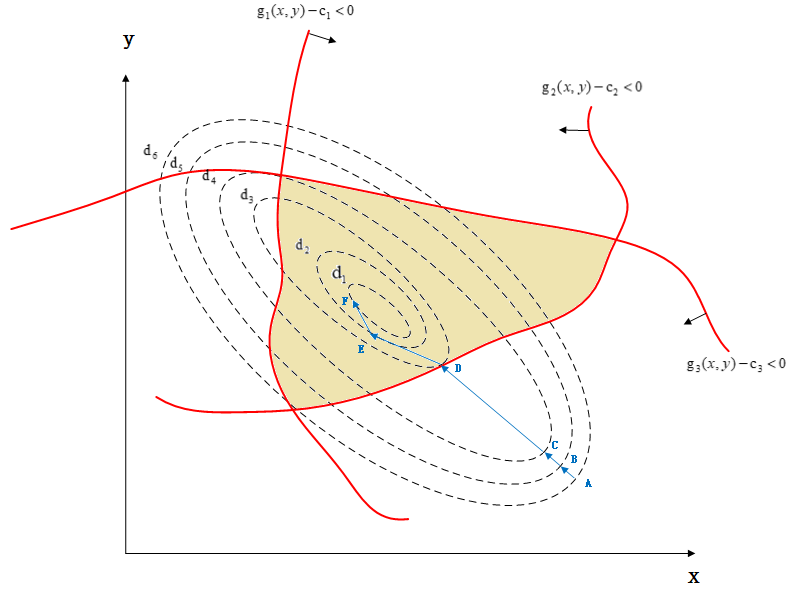
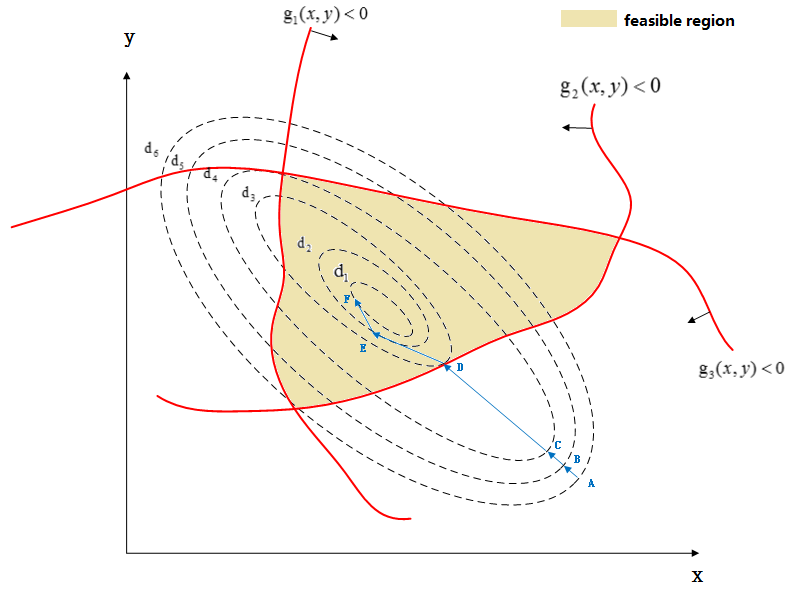
update svm general_lagrange

diff --git a/SVM相关/拉格朗日乘子法和广义拉格朗日乘子法.md b/SVM相关/拉格朗日乘子法和广义拉格朗日乘子法.md
@@ -11,7 +11,7 @@
 **github**: `https://github.com/FesianXu`
 **有关代码开源**: [click][click]
 
-*****
+*****************************************************************************
 
 
 # 最优化问题
@@ -31,6 +31,8 @@ s.t.　　　4x+5y = 10
 $$
 因为此时的约束条件是**仿射函数（affine function）**[^1]，所以可以利用换元法将$x$表示为$y$的函数，从而将目标函数变为无约束的形式，然后利用罗尔定理便可以求出最值点了。
 然而如果约束条件一般化为$g(x, y) = c$，那么$x$就不一定可以用其他变量表示出来了，这个时候就要利用**拉格朗日乘数法(Lagrange multipliers )**了。
+
+*****************************************************************************
 
 # 拉格朗日乘数法(Lagrange multipliers)
 我们先一般化一个二元最优化问题为$(2.1)$形式：
@@ -61,39 +63,67 @@ L(x, y, \lambda) = f(x, y) - \lambda(g(x, y) - c)
 $$
 看！我们得出了我们高数中经常见到的**等式约束下的拉格朗日乘数函数的表示方法**。
 
+*****************************************************************************
 
 # 广义拉格朗日乘数法(Generalized Lagrange multipliers)
 上面我们的拉格朗日乘数法解决了等式约束的最优化问题，但是在**存在不等式约束的最优化问题**（包括我们SVM中需要求解的最优化问题）上，普通的拉格朗日乘数法并不能解决，因此学者提出了**广义拉格朗日乘数法（Generalized Lagrange multipliers）**， 用于解决含有不等式约束的最优化问题。这一章，我们谈一谈广义拉格朗日乘数法。
-首先，我们先一般化我们的问题，规定一个标准的带有不等式约束的最小化问题，如：
+首先，我们先一般化我们的问题，规定一个二元标准的带有不等式约束的最小化问题(当然可以推广到多元的问题)，如：
 $$
 \min_{x, y} f(x, y)
 $$
 $$
-s.t.　　g_i(x, y) \leq c_i, i = 1,2,3
+s.t.　　g_i(x, y) \leq 0, i = 1,2,\cdots,N
 $$
 $$
-h_i(x, y) = 0, i = 1,2,3
+h_i(x, y) = 0, i = 1,2, \cdots, N
 \tag{3.1}
 $$
-这里我们先不考虑等式约束，而只考虑不等式约束，所以$(3.1)$变为了：
+类似于拉格朗日乘数法，参照式子$(2.4)$，我们使用$\alpha_i$和$\beta_i$作为等式约束和不等式约束的拉格朗日乘子，得出下式：
 $$
-\min_{x, y} f(x, y)
-$$
-$$
-s.t.　　g_i(x, y) \leq c_i, i = 1,2,3
+L(x, y, \alpha, \beta) = f(x, y)+\sum_{i=1}^N \alpha_ig_i(x ,y)+\sum_{i=1}^N \beta_i h_i(x, y)
 \tag{3.2}
 $$
+**KKT条件（Karush–Kuhn–Tucker conditions）**指出，当满足以下几个条件的时候，其解是问题最优解的候选解(摘自wikipedia)。
 
-![general_lagrange_multipliers] 
+1. **Stationarity**
+   * 对于最小化问题就是： $\nabla f(x,y)+\sum_{i=1}^N \alpha_i \nabla g_i(x ,y)+\sum_{i=1}^N \beta_i \nabla h_i(x, y) = 0 \tag{3.3}$
+   * 对于最大化问题就是： $\nabla f(x,y)-(\sum_{i=1}^N \alpha_i \nabla g_i(x ,y)+\sum_{i=1}^N \beta_i \nabla h_i(x, y)) = 0 \tag{3.4}$
+
+2. **Primal feasibility**
+   * $g_i(x,y) \leq0, i = 1,2,\cdots,N \tag{3.5}$
+   * $h_i(x, y) = 0, i = 1,2,\cdots,N \tag{3.6}$
+
+3. **Dual feasibility**
+   * $\alpha_i \geq 0, i = 1,2, \cdots, N \tag{3.7}$
+
+4. **Complementary slackness**
+   * $\alpha_i g_i(x, y) = 0, i = 1,2,\cdots,N \tag{3.8}$
+
+其中的第一个条件和我们的拉格朗日乘数法的含义是相同的，就是梯度共线的意思；而第二个条件就是主要约束条件，自然是需要满足的；**有趣的和值得注意的是第三个和第四个条件，接下来我们探讨下这两个条件，以及为什么不等式约束会多出这两个条件。**
+
+----
+为了接下来的讨论方便，我们将N设为3，并且去掉等式约束，这样我们的最小化问题的广义拉格朗日函数就变成了：
+$$
+L(x, y, \alpha, \beta) = f(x, y)+\sum_{i=1}^3 \alpha_ig_i(x ,y)
+\tag{3.9}
+$$
+绘制出来的示意图如下所示：
+![general_lagrange_multipliers][general_lagrange_multipliers]
+其中$d_i > d_j, when　i > j$，而蓝线为最优化寻路过程。
+让我们仔细观察式子$(3.7)$和$(3.8)$，我们不难发现，因为$\alpha_i \geq 0$而$g_i(x, y) \leq 0$，并且需要满足$\alpha_i g_i(x, y) = 0$，所以$\alpha_i$和$g_i(x,y)$之中必有一个为0，那为什么会这样呢？
+
+----
+
+我们从上面的示意图入手理解并且记好公式$(3.3)$。让我们假设初始化一个点A， 这个点A明显不处于最优点，也不在可行域内，也就是说不满足式子$(3.5)$，有$g_i(x,y)>0$，为了满足约束$(3.8)$，有$\alpha_i=0$，导致$\alpha_i \nabla g_i(x,y)=0$，因此式子$(3.5)$就只剩下了$\nabla f(x,y)$，**因此对着$\nabla f(x,y)$进行优化，也就是沿着$f(x,y)$梯度方向下降即可，不需考虑其他的条件（因为还完全处于可行域之外）**。因此，A点一直走啊走，从A到B，从B到C，从C到D，这个时候因为D点满足$g_2(x,y)=0$，因此$\alpha_2 > 0$，所以$\alpha_2\nabla g_2(x,y) \neq 0$，所以在优化下一个点E的时候，就会考虑到
 
 
-
-
+*****************************************************************************
 # 引用
 1. [拉格朗日乘子法如何理解？ 知乎][ref_1]
 2. [《统计学习方法》 豆瓣][ref_2]
 3. [《【直观详解】拉格朗日乘法和KKT条件》  微信公众号][ref_3]
 4. [《解密SVM系列（一）：关于拉格朗日乘子法和KKT条件》 CSDN][ref_4]
+5. [Karush–Kuhn–Tucker conditions wikipedia][ref_5]
 
 
 [click]: https://github.com/FesianXu/AI_Blog/tree/master/SVM%E7%9B%B8%E5%85%B3
@@ -101,6 +131,7 @@ $$
 [ref_2]: https://book.douban.com/subject/10590856/
 [ref_3]: http://mp.weixin.qq.com/s?__biz=MzI4MDYzNzg4Mw==&mid=2247486230&idx=1&sn=41c3bcbf00b43535e912af1dab2704f5&chksm=ebb433c2dcc3bad45fa784314d4ea6a464538ff19b937b58bd99f12b43ec3c3cf01a269f9124&mpshare=1&scene=23&srcid=11211sArM7yh9Xf0pkvnWaJA#rd
 [ref_4]: http://blog.csdn.net/on2way/article/details/47729419
+[ref_5]: https://en.wikipedia.org/wiki/Karush%E2%80%93Kuhn%E2%80%93Tucker_conditions
 
 
 [general_min]: ./imgs/general_min.png
